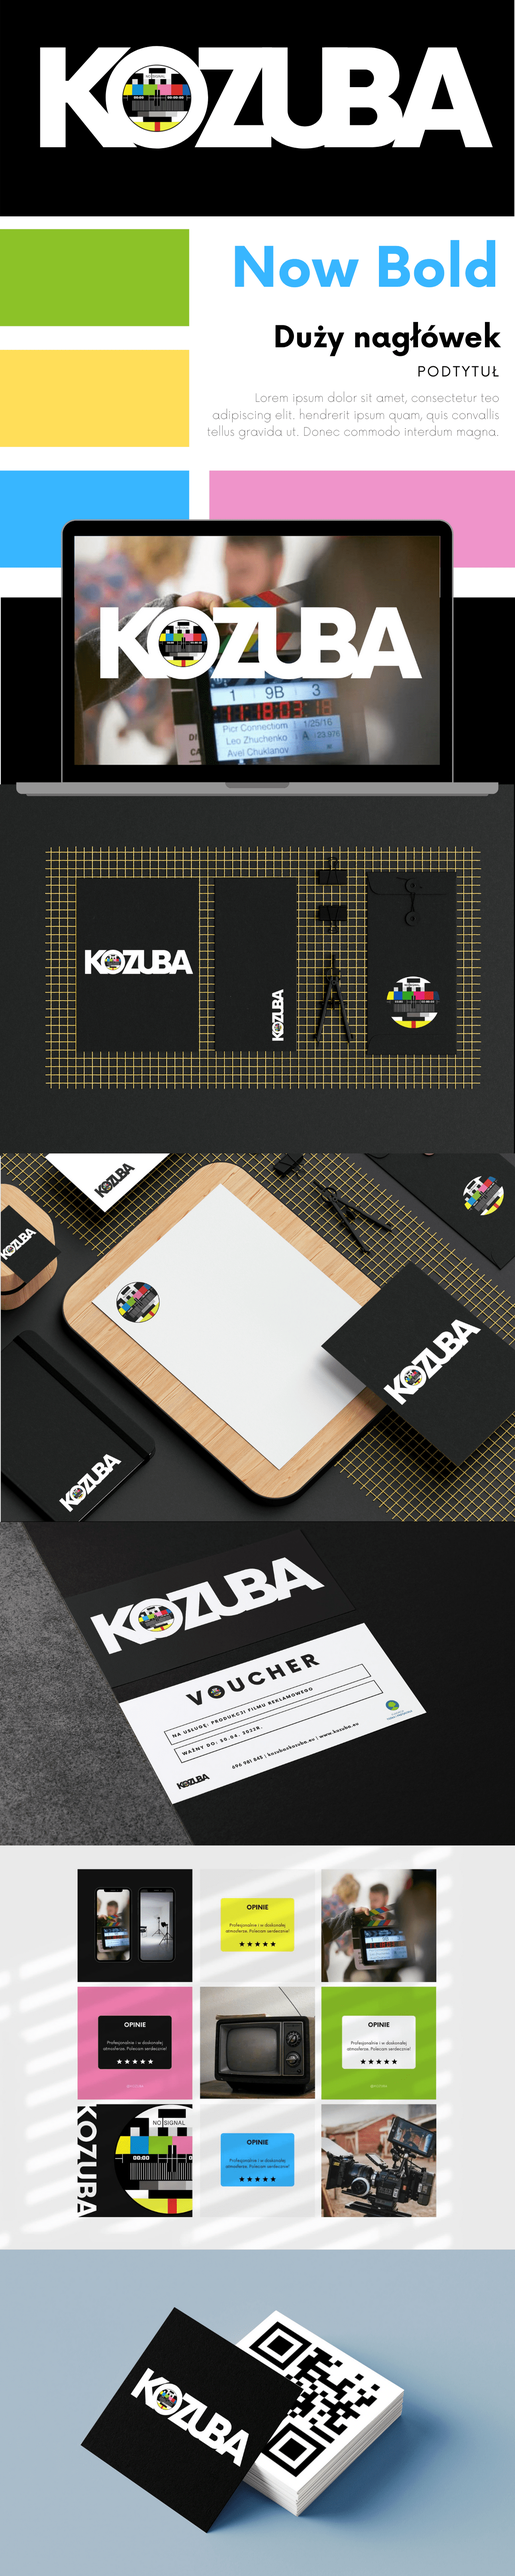
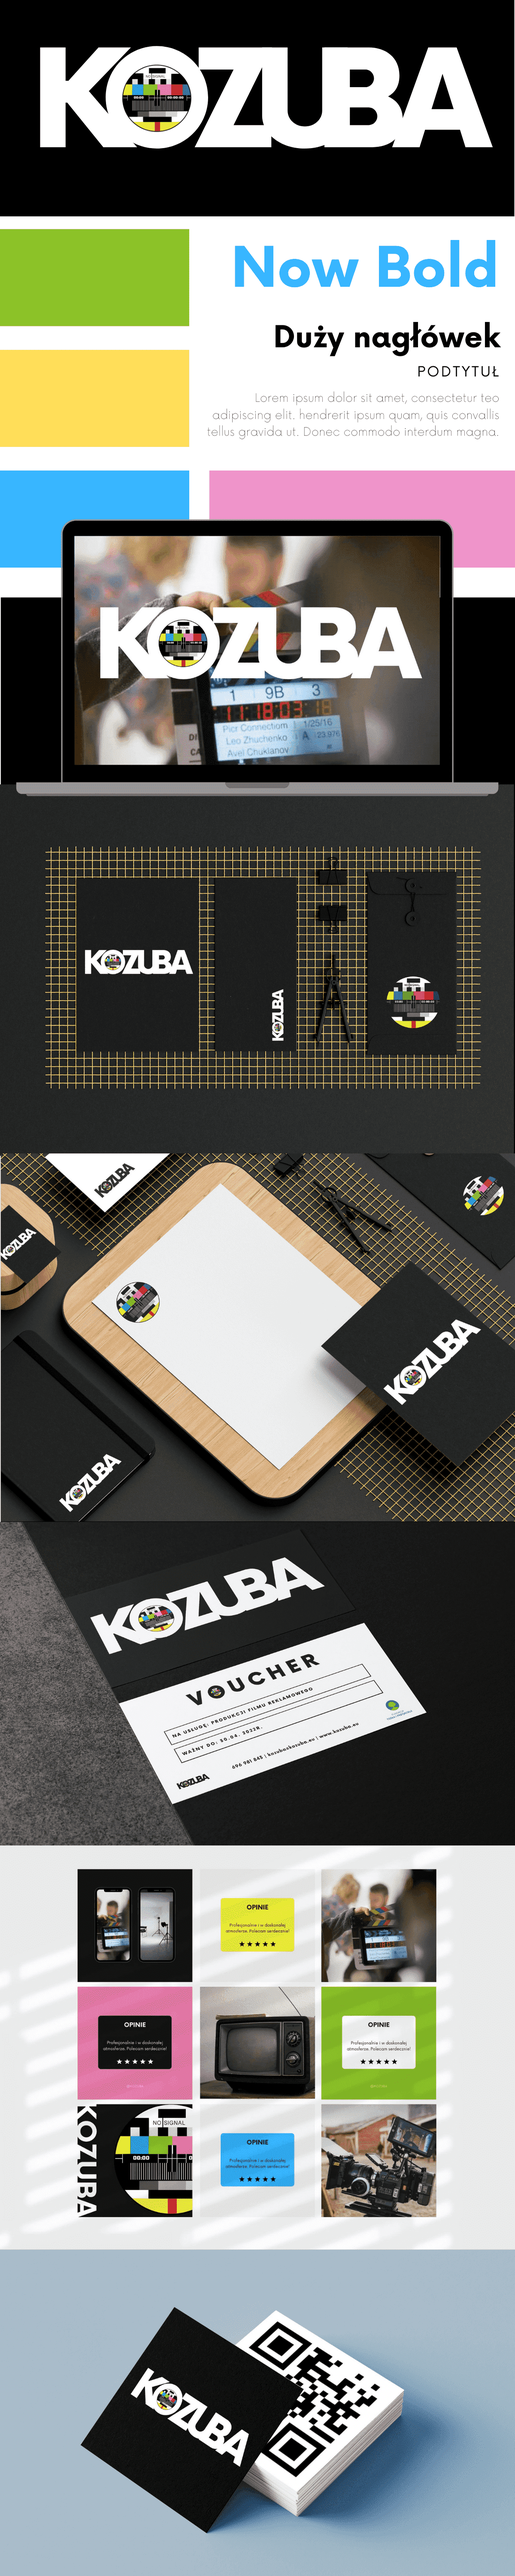
resizing images

diff --git a/data/portfolio.js b/data/portfolio.js
@@ -51,14 +51,14 @@ export const Portfolio = [
     {
         id: 7,
         name: 'stacja pistacja',
-        image: '/portfolio/logo/stacja_pistacja.jpg',
+        image: '/portfolio/logo/stacja_pistacja.jpeg',
         visual: '/portfolio/wiz/stacja_pistacja_wiz-min.png',
         slug: 'stacja-pistacja',
     },
     {
         id: 8,
         name: 'restauracja lava',
-        image: '/portfolio/logo/lava.jpg',
+        image: '/portfolio/logo/lava.jpeg',
         visual: '/portfolio/wiz/lava_wiz-min.png',
         slug: 'restauracja-lava',
     },
